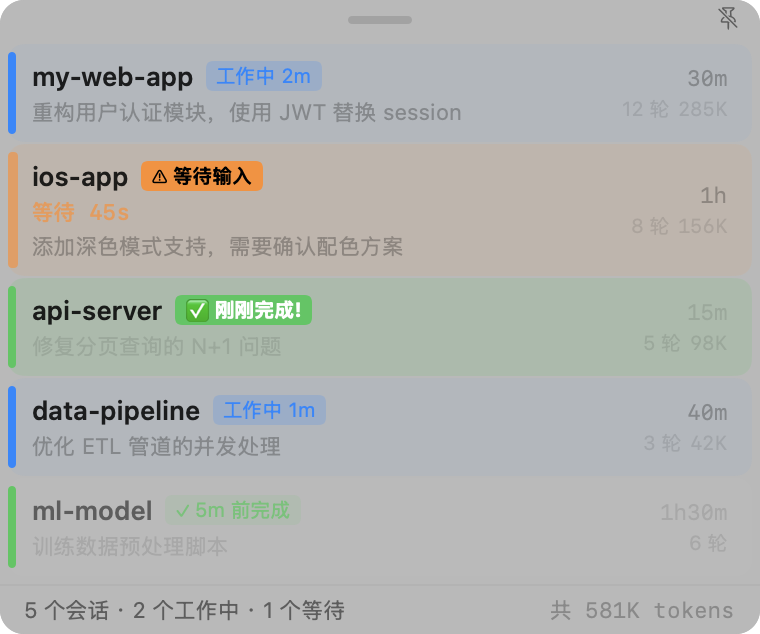
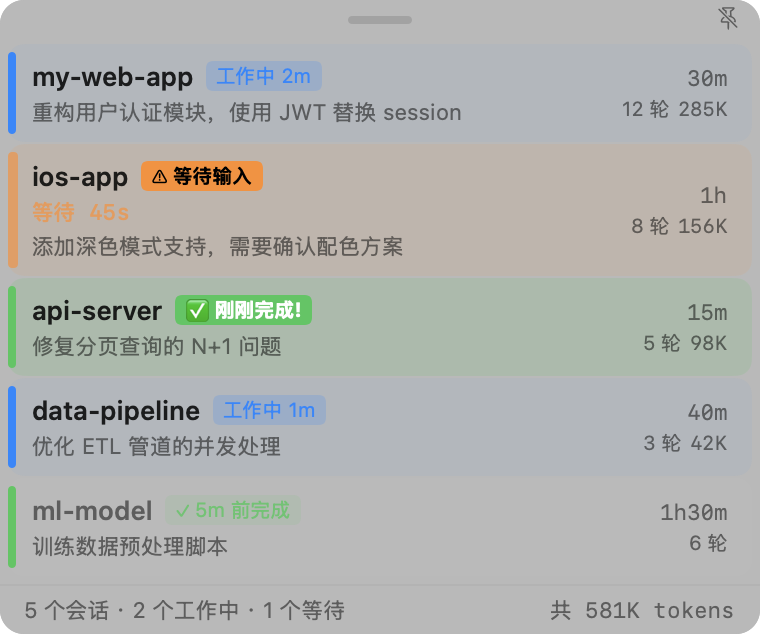
fix: improve text readability on glass background
Replace all .quaternary/.tertiary foreground styles with .secondary
for better contrast on the hudWindow glass material background.

diff --git a/CCDock/Views/SessionListView.swift b/CCDock/Views/SessionListView.swift
@@ -200,7 +200,7 @@ struct SessionRowView: View {
                     let truncated = prompt.count > 40 ? String(prompt.prefix(40)) + "…" : prompt
                     Text(truncated)
                         .font(.system(size: 11))
-                        .foregroundStyle(session.status == .idle ? .quaternary : .tertiary)
+                        .foregroundStyle(.secondary)
                         .lineLimit(1)
                 }
             }
@@ -211,18 +211,18 @@ struct SessionRowView: View {
             VStack(alignment: .trailing, spacing: 2) {
                 Text(session.durationText)
                     .font(.system(size: 11, design: .monospaced))
-                    .foregroundStyle(session.status == .idle ? .quaternary : .tertiary)
+                    .foregroundStyle(.secondary)
 
                 HStack(spacing: 4) {
                     if session.turnCount > 0 {
                         Text("\(session.turnCount) 轮")
                             .font(.system(size: 10))
-                            .foregroundStyle(.quaternary)
+                            .foregroundStyle(.secondary)
                     }
                     if !session.tokenText.isEmpty {
                         Text(session.tokenText)
                             .font(.system(size: 10, design: .monospaced))
-                            .foregroundStyle(.quaternary)
+                            .foregroundStyle(.secondary)
                     }
                 }
             }
@@ -365,7 +365,7 @@ struct StatusBadge: View {
         switch session.status {
         case .working: return .blue
         case .waitingInput: return .black
-        case .idle: return .green.opacity(0.7)
+        case .idle: return .green.opacity(0.8)
         case .unknown: return .gray
         }
     }
@@ -390,7 +390,7 @@ struct StatusBarView: View {
             if totalTokens > 0 {
                 Text(formatTokens(totalTokens))
                     .font(.system(size: 11, design: .monospaced))
-                    .foregroundStyle(.tertiary)
+                    .foregroundStyle(.secondary)
             }
         }
         .padding(.horizontal, 12)
@@ -443,7 +443,7 @@ struct SessionListView: View {
             VStack(spacing: 6) {
                 Image(systemName: "terminal")
                     .font(.system(size: 20))
-                    .foregroundStyle(.tertiary)
+                    .foregroundStyle(.secondary)
                 Text("没有活跃的会话")
                     .foregroundStyle(.secondary)
                     .font(.system(size: 12))
